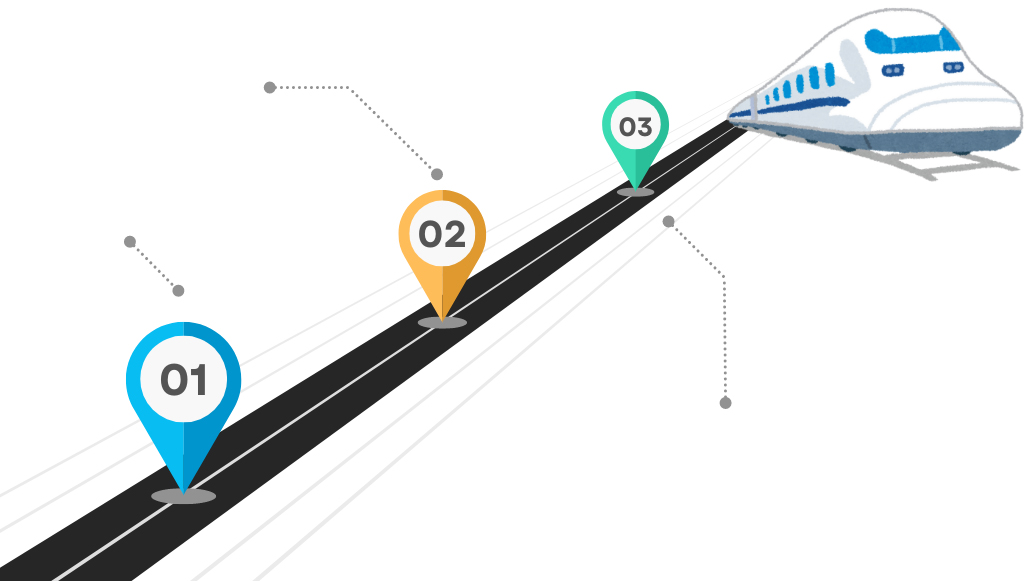
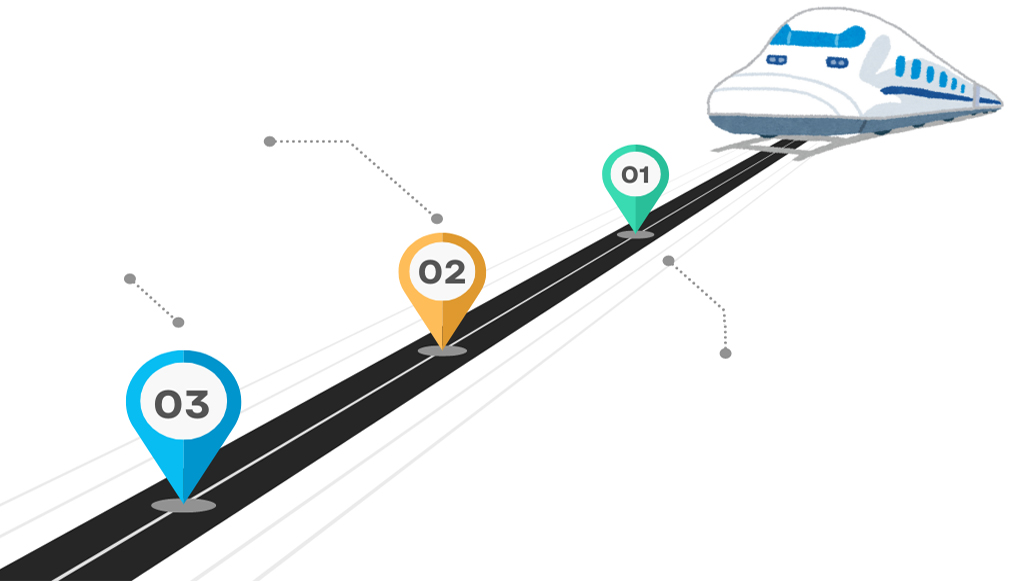
state profile changes

diff --git a/MeghalayaUIP/assets/assetsnew/css/style.css b/MeghalayaUIP/assets/assetsnew/css/style.css
@@ -20402,67 +20402,128 @@ section.project-section.case-page-3.eodb4.p-0.pt-2.mb-5 .col-lg-3.col-md-6.col-s
     transition: transform .6s;
     transform: scale(0.9);
 }
-p.road1 {
+/*p.road1 {
     position: absolute;
     top: 60px;
     text-align: center;
     left: 41%;
     color:#fff;
+}*/
+p.road1 {
+    position: absolute;
+    top: 12px;
+    text-align: center;
+    left: 29%;
+    color: #fff;
 }
-p.road2 {
+/*p.road2 {
     position: absolute;
     top: 86px;
     text-align: center;
     right: 33.5%;
     color: #fff;
+}*/
+p.road2 {
+    position: absolute;
+    top: 32px;
+    text-align: center;
+    right: 6.5%;
+    color: #fff;
 }
-p.road3 {
+/*p.road3 {
     position: absolute;
     bottom: 76px;
     text-align: center;
     left: 27.5%;
     color: #fff;
     background: #36dcb4;
+}*/
+p.road3 {
+    position: absolute;
+    bottom: 85px;
+    text-align: center;
+    left: -6.5%;
+    color: #fff;
+    background: #36dcb4;
+    height: 105px;
 }
 p.road1112 {
     position: absolute;
     left: 27%;
     color: #000;
-    bottom: 45.5%;
+    bottom: 27%;
 }
 p.road2112 {
     position: absolute;
-    left: 41%;
+    left: 46%;
     color: #000;
-    bottom: 17%;
+    bottom: 0%;
 }
 p.road3112 {
     position: absolute;
-    left: 39%;
-    color: #000;
-    bottom: 67%;
-}
-p.road4114 {
-    position: absolute;
-    left: 57%;
+    left: 36%;
     color: #000;
     bottom: 51%;
 }
-p.road1234 {
+p.road4114 {
+    position: absolute;
+    left: 58%;
+    color: #000;
+    bottom: 41%;
+}
+/*p.road1234 {
     position: absolute;
     top: 27%;
     left: 27%;
     color: #000;
+}*/
+p.road1234 {
+    position: absolute;
+    top: 30%;
+    left: 2%;
+    color: #fff;
+    background: #0097cb;
+    padding: 4px !important;
+    border-radius: 8px;
 }
-p.road2235 {
+/*p.road2235 {
     position: absolute;
     top: 8%;
     left: 32%;
     color: #000;
+}*/
+p.road2235 {
+    position: absolute;
+    top: 5%;
+    left: 13%;
+    color: #fff !important;
+    line-height: 21px;
+    background: #de9a2f;
+    border-radius: 8px;
+    padding: 4px 6px !important;
 }
-p.road3236 {
+/*p.road3236 {
     position: absolute;
     right: 20%;
     bottom: 21%;
     color: #000;
+}*/
+p.road3236 {
+    position: absolute;
+    right: 3%;
+    bottom: 7%;
+    color: #fff !important;
+    background: #29bf99;
+    border-radius: 8px;
+    padding: 4px 6px !important;
+}
+.boxfight {
+    border: 1px solid #0072bd;
+    height: 330px;
+    position: absolute;
+    width: 56%;
+    left: 25%;
+    top: 0;
+    border-radius: 8px;
+    box-shadow: 1px 4px 8px;
 }
